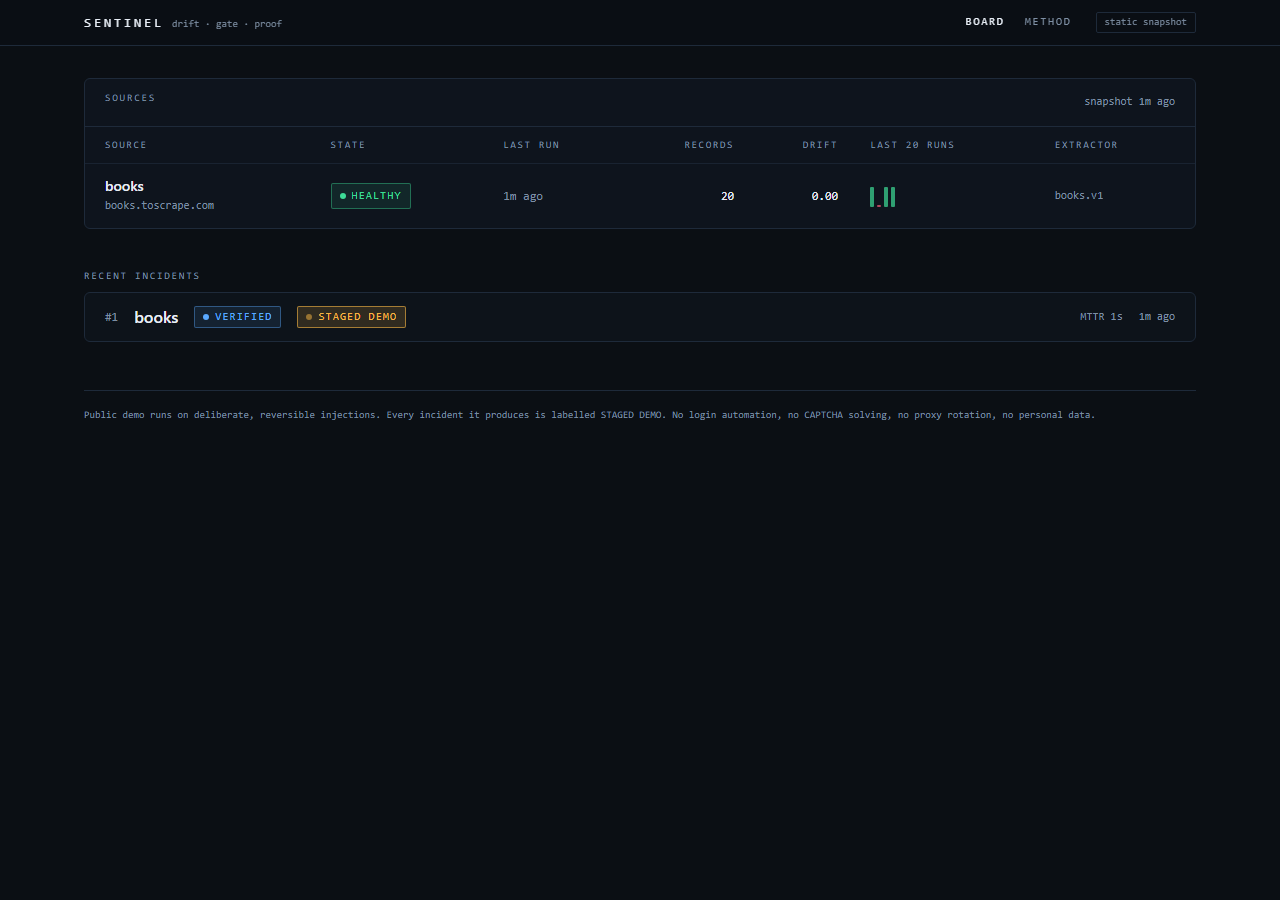
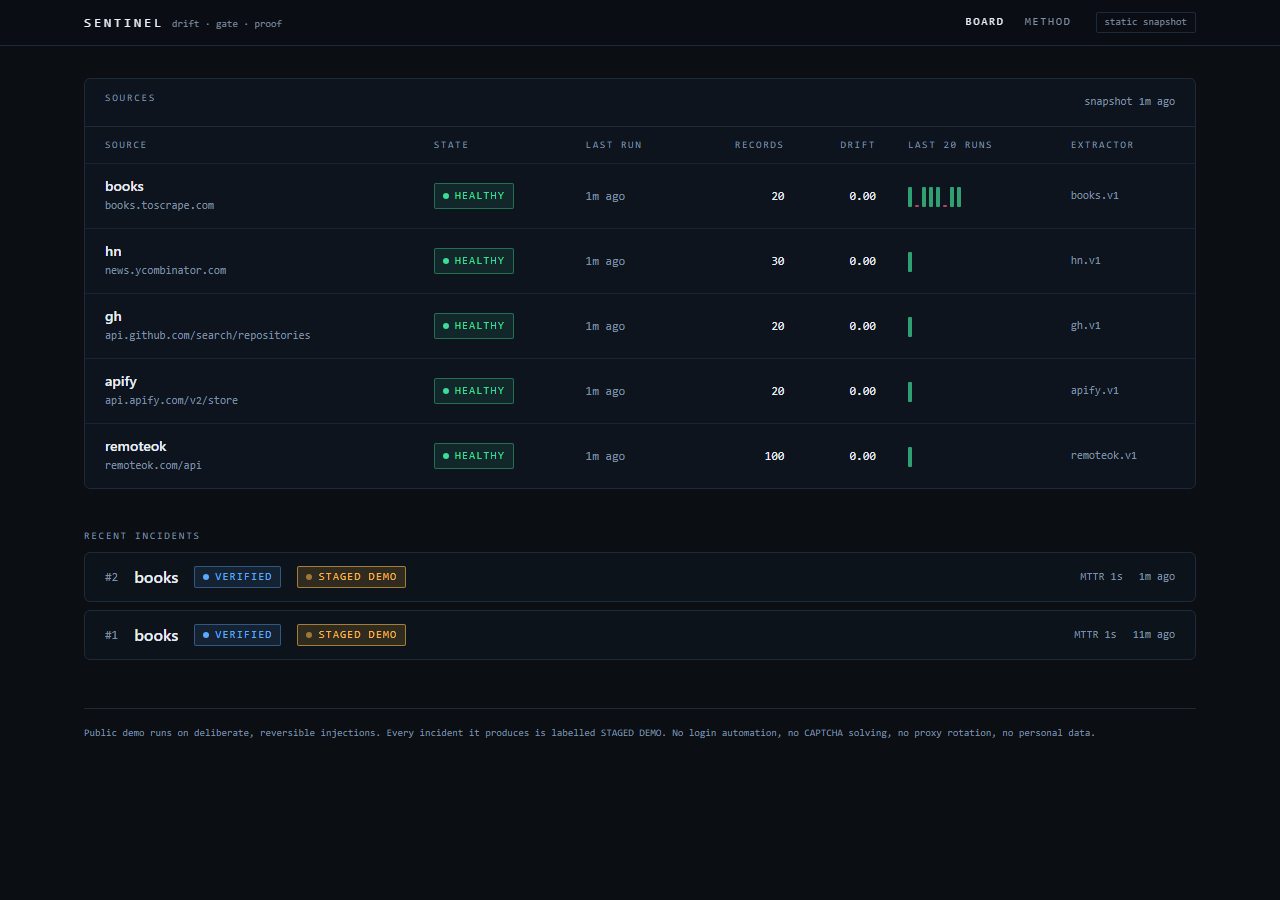
docs: live evidence for all five sources; MTTR observed value
Live board renders books, hn, gh, apify and remoteok, all HEALTHY with 0 schema failures. Static and live-API browser checks: 0 console errors, 0 failed assertions. A7 records the live incident's verified_at - drift_detected_at.

diff --git a/README.md b/README.md
@@ -100,7 +100,7 @@ candidate is stored on the incident for review and is never made active.
 | A4 | Gate rejects a wrong repair | price+rating null → REJECT at 0.6000, nothing applied; truncated 10/20 → REJECT at 0.5000 | **pass** |
 | A5 | Gate accepts a correct repair | PASS at 1.0000, `books.v2` created and made active | **pass** |
 | A6 | Repairs are revertible | revert to `books.v1`, next run 20 rec, 0 schema failures, golden reproduced | **pass** |
-| A7 | MTTR is real | `verified_at − drift_detected_at` = 4s, rendered in the UI | **pass** |
+| A7 | MTTR is real | live incident #1: `06:35:16.206207Z` → `06:35:16.635279Z`, 1s, rendered in the UI | **pass** |
 | A8 | Staged incidents labelled | `STAGED DEMO` badge rendered; 0 unlabelled staged incidents | **pass** |
 | A9 | Refusals enforced | loader raises; CLI exits non-zero on `login: true` and `captcha: solve` | **pass** |
 | A10 | Dashboard reads live API | 3 screens, 0 console errors in static and live-API modes; 50.49 kB gzip JS | **pass** |
